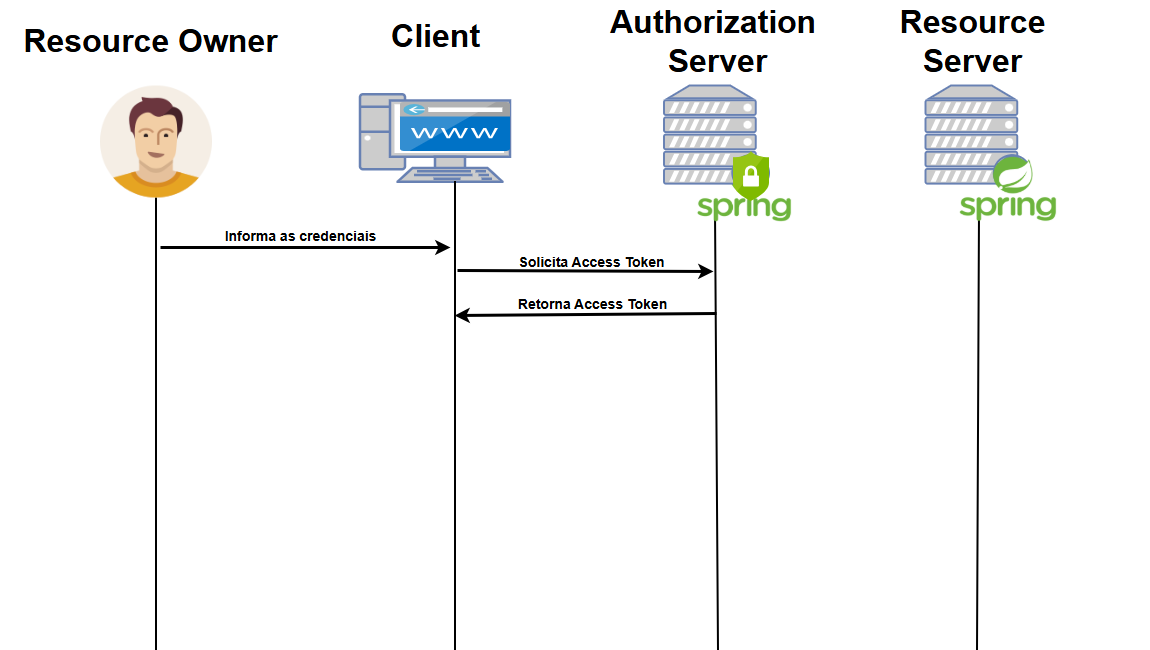
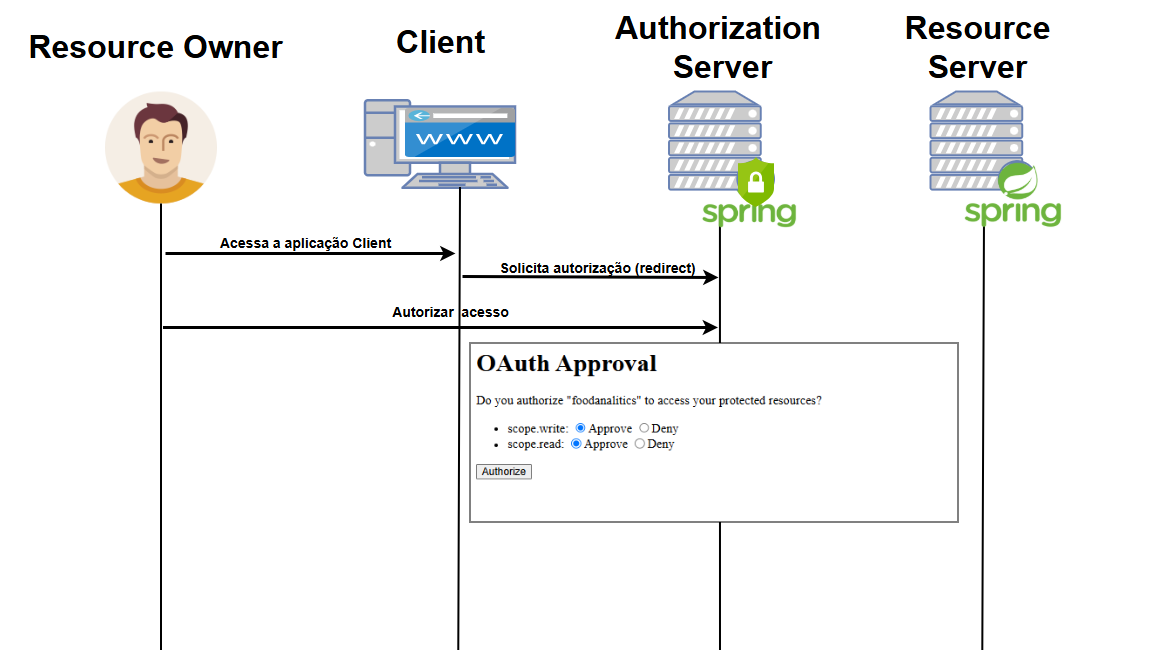
Configurando o Authorization Code Grant Type

diff --git a/src/main/java/com/algaworks/algafood/auth/AuthorizationServerConfig.java b/src/main/java/com/algaworks/algafood/auth/AuthorizationServerConfig.java
@@ -41,7 +41,16 @@ public class AuthorizationServerConfig extends AuthorizationServerConfigurerAdap
                 .withClient("check-token") // outro client (esse client está sendo usado pelo algafood-api)
                 .secret(passwordEncoder.encode("check123"))
                 .authorizedGrantTypes("password")
-                .scopes("write", "read");
+                .scopes("write", "read")
+
+            .and()
+                .withClient("foodanalitics") // outro client
+                .secret(passwordEncoder.encode("food123"))
+                .authorizedGrantTypes("authorization_code") // Tipo de concessão autorizado, passado via grant_type
+                .scopes("write", "read")
+                .redirectUris("http://aplicacao-cliente")
+
+        ;
 
     }
 
